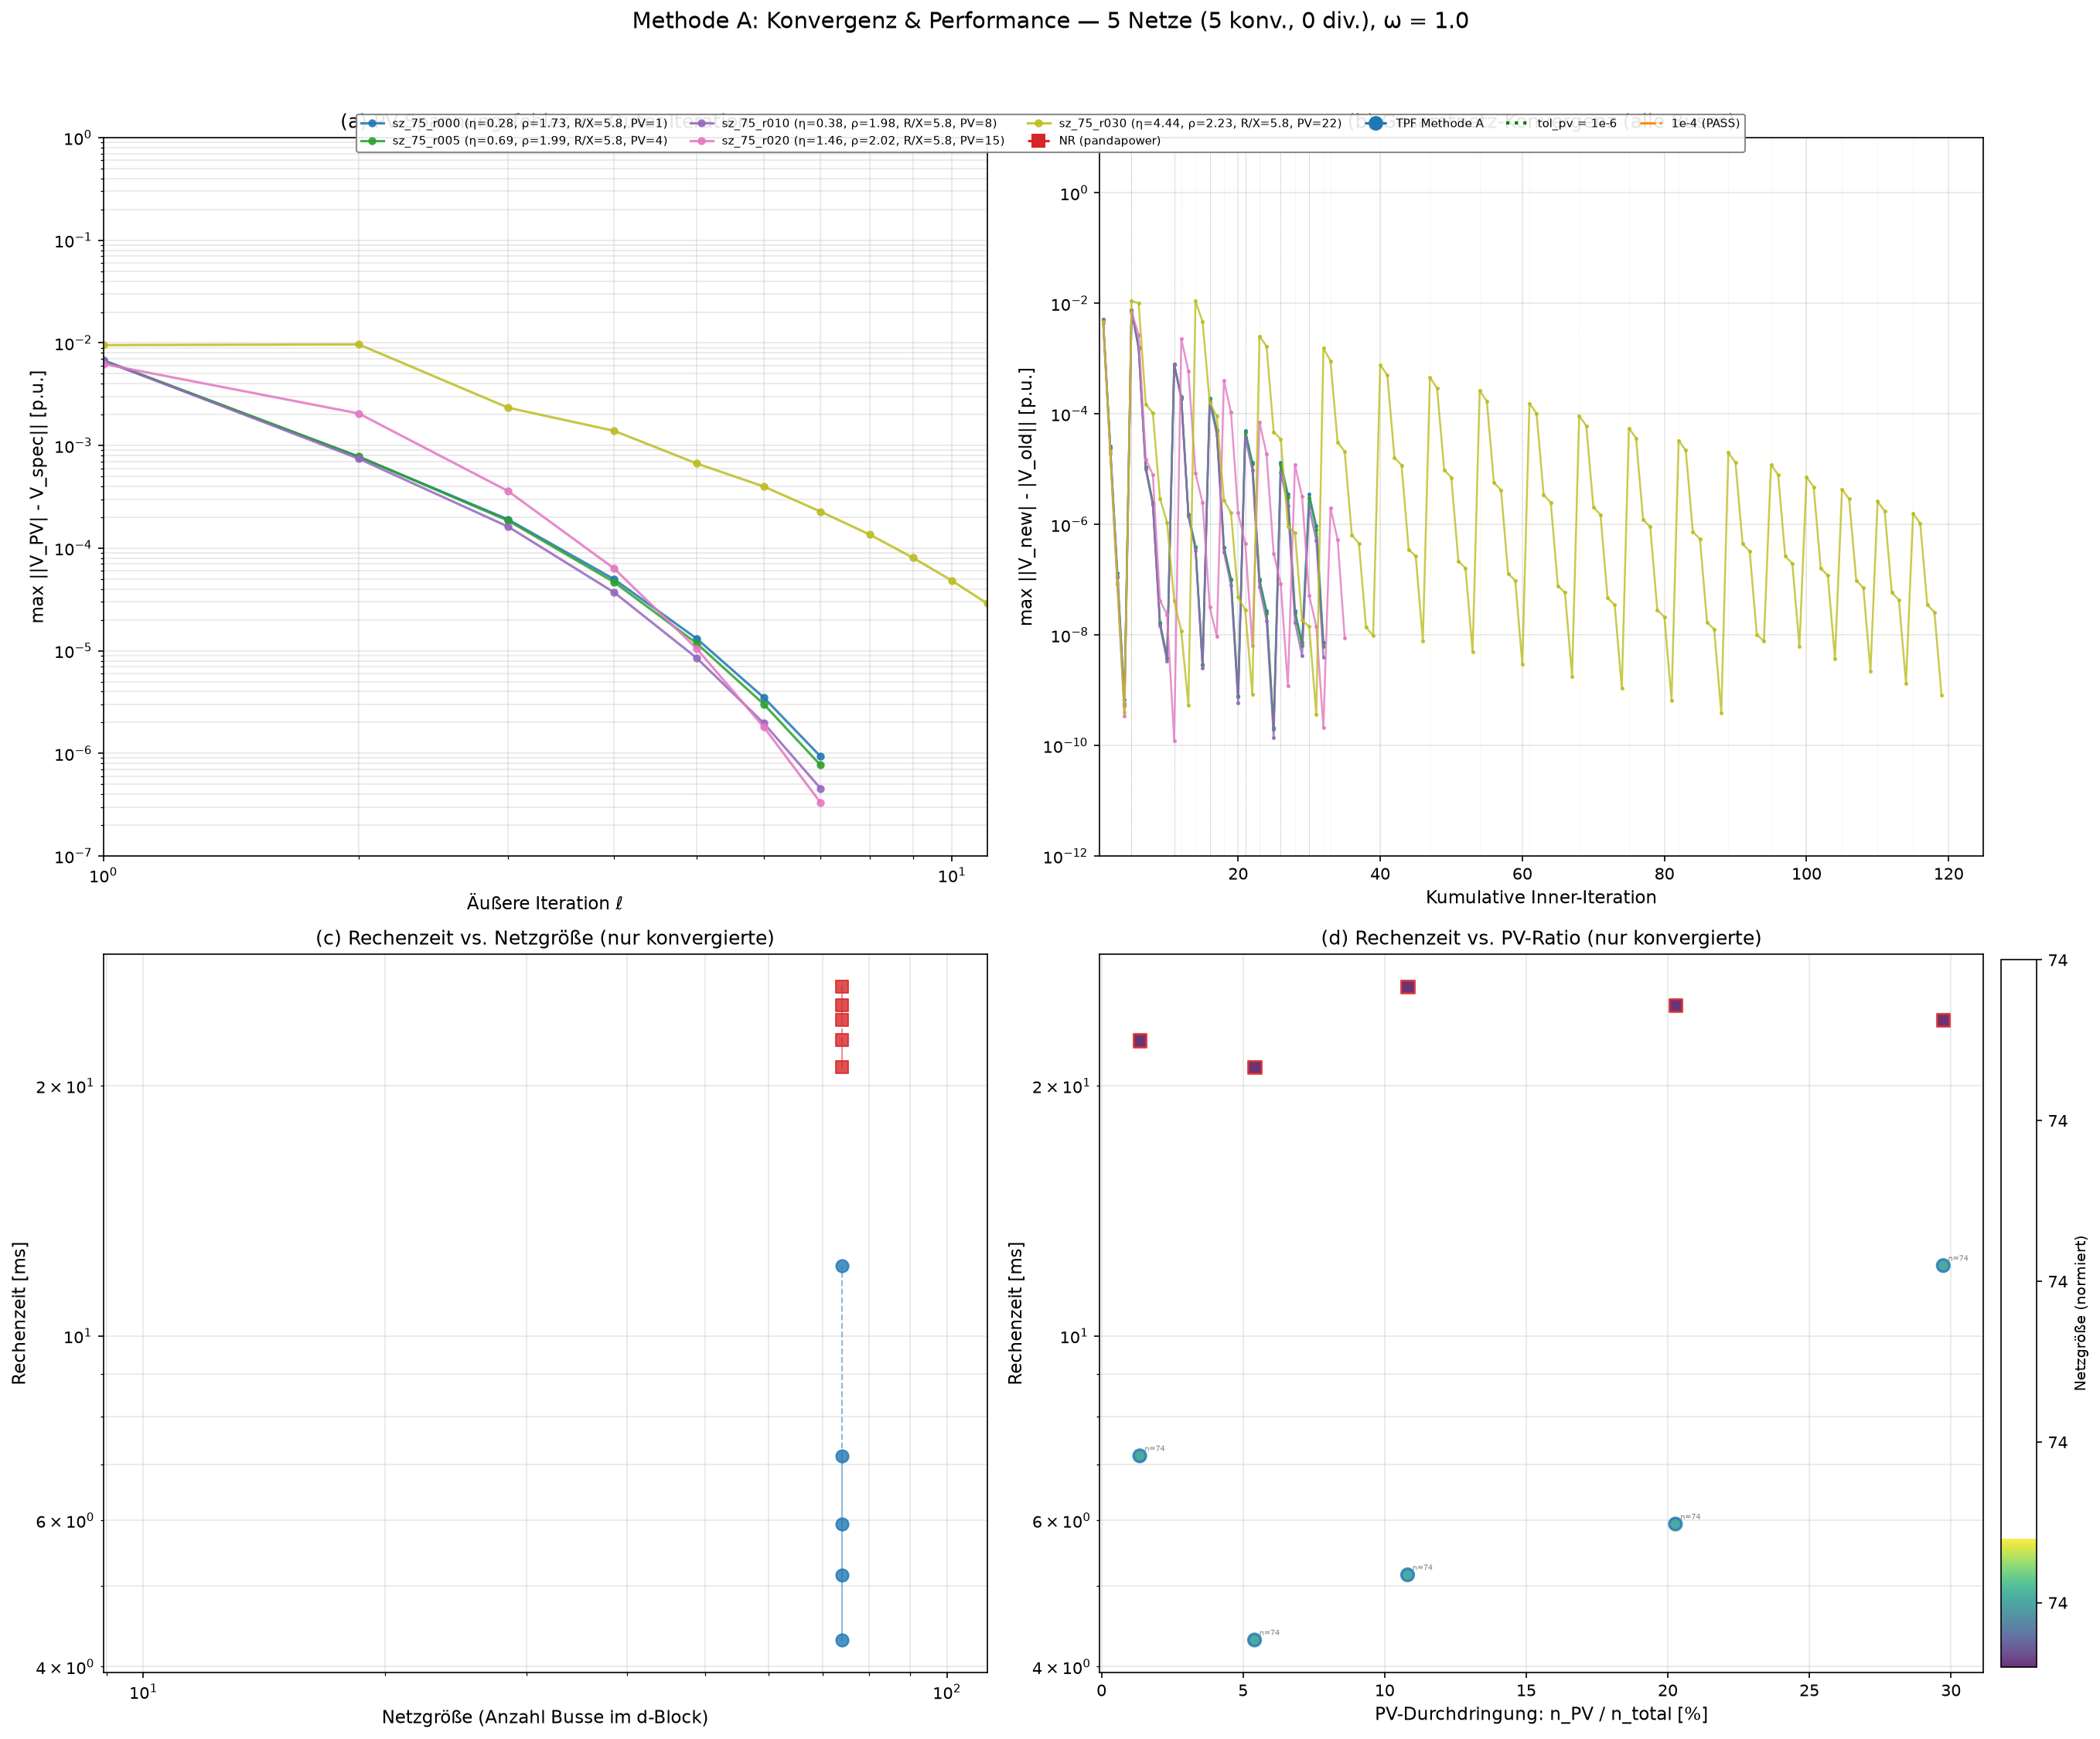
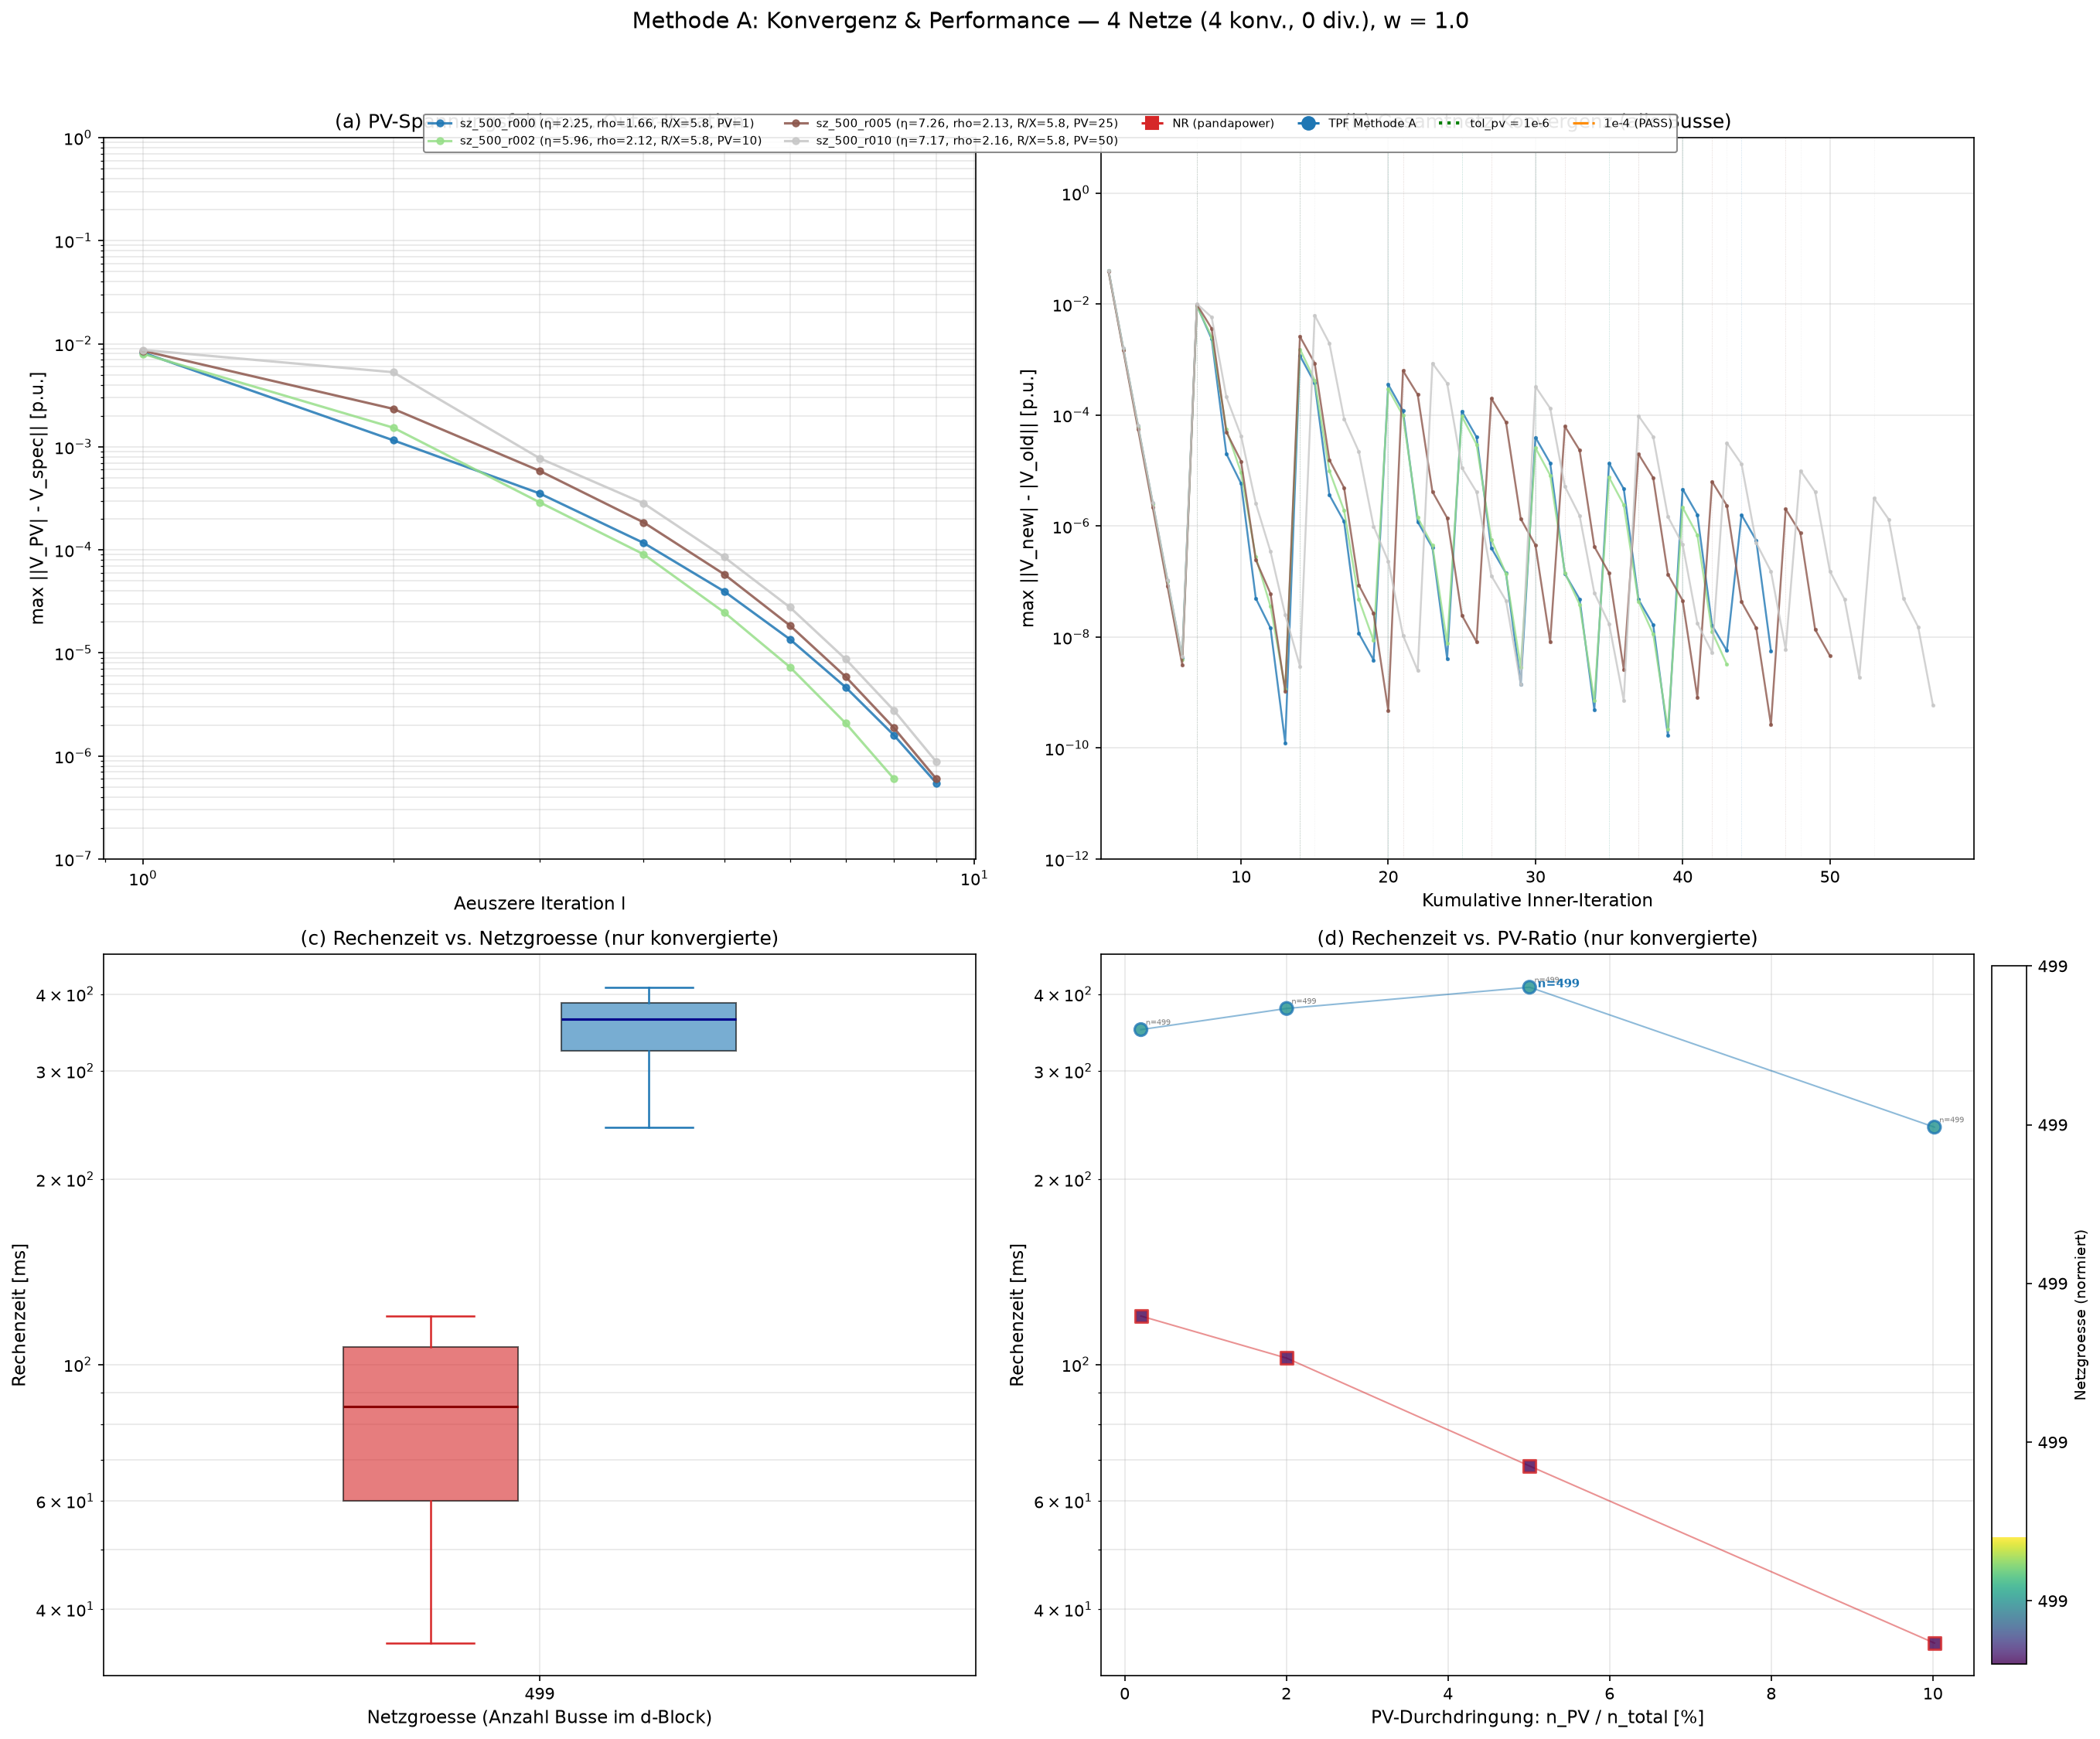
code commit: csv plotter for tau

diff --git a/Code/tensor_power_flow/scripts/plot_tau_results.py b/Code/tensor_power_flow/scripts/plot_tau_results.py
@@ -1,0 +1,230 @@
+# tensor_power_flow/scripts/plot_tau_results.py
+"""
+Plot tau scaling results from CSV files.
+Usage: python plot_tau_results.py <csv_files> [options]
+"""
+import sys, os, argparse
+from datetime import datetime
+import csv
+
+import numpy as np
+import matplotlib.pyplot as plt
+import re
+
+def parse_csv(csv_path: str):
+    """Load tau scaling data from CSV file."""
+    tau, t_tpf, t_nr, speedup, tpf_per, nr_per = [], [], [], [], [], []
+    with open(csv_path, "r") as f:
+        reader = csv.DictReader(f)
+        for row in reader:
+            tau.append(int(row["tau"]))
+            t_tpf.append(float(row["t_tpf"]))
+            t_nr.append(float(row["t_nr"]))
+            speedup.append(float(row["speedup"]))
+            tpf_per.append(float(row["tpf_per_scenario"]))
+            nr_per.append(float(row["nr_per_scenario"]))
+    return {
+        "tau": np.array(tau),
+        "t_tpf": np.array(t_tpf),
+        "t_nr": np.array(t_nr),
+        "speedup": np.array(speedup),
+        "tpf_per_scenario": np.array(tpf_per),
+        "nr_per_scenario": np.array(nr_per),
+    }
+
+
+def extract_network_name(csv_path: str) -> str:
+    """Extract network name from CSV filename."""
+    basename = os.path.basename(csv_path)
+    if basename.startswith("tau_scaling_"):
+        parts = basename.replace(".csv", "").split("_")
+        if len(parts) >= 3:
+            return "_".join(parts[2:])
+    return basename.replace(".csv", "")
+
+
+def plot_time_vs_tau(data_list, names, output_dir=None, use_log=True, save_only=False):
+    """Plot computing time vs tau (log-log or linear)."""
+    fig, ax = plt.subplots(figsize=(10, 7))
+
+    colors = plt.cm.tab10.colors
+    markers = ["o", "s", "^", "D", "v", "<", ">", "p", "h", "*"]
+
+    for i, (data, name) in enumerate(zip(data_list, names)):
+        color = colors[i % len(colors)]
+        marker = markers[i % len(markers)]
+        ax.plot(data["tau"], data["t_tpf"], color=color, marker=marker,
+                lw=2, markersize=6, label=f"TPF - {name}")
+        ax.plot(data["tau"], data["t_nr"], color=color, marker=marker,
+                lw=2, markersize=6, linestyle="--", alpha=0.7, label=f"NR - {name}")
+
+    ax.set_xlabel("tau (number of scenarios)", fontsize=12)
+    ax.set_ylabel("Computing time [s]", fontsize=12)
+    ax.set_title("Computing Time vs tau", fontsize=14)
+
+    if use_log:
+        ax.set_xscale("log")
+        ax.set_yscale("log")
+    ax.grid(True, which="both", alpha=0.3)
+    ax.legend(fontsize=9, loc="best", ncol=2)
+
+    plt.tight_layout()
+    if output_dir:
+        os.makedirs(output_dir, exist_ok=True)
+        save_path = os.path.join(output_dir, f"tau_time_{datetime.now().strftime('%Y%m%d_%H%M%S')}.png")
+        plt.savefig(save_path, dpi=150, bbox_inches="tight")
+        print(f"Plot saved: {save_path}")
+    if not save_only:
+        plt.show()
+    plt.close()
+
+
+def plot_time_per_scenario(data_list, names, output_dir=None, use_log=True, save_only=False):
+    """Plot time per scenario vs tau."""
+    fig, ax = plt.subplots(figsize=(10, 7))
+
+    colors = plt.cm.tab10.colors
+    markers = ["o", "s", "^", "D", "v", "<", ">", "p", "h", "*"]
+
+    for i, (data, name) in enumerate(zip(data_list, names)):
+        color = colors[i % len(colors)]
+        marker = markers[i % len(markers)]
+        ax.plot(data["tau"], data["tpf_per_scenario"], color=color, marker=marker,
+                lw=2, markersize=6, label=f"TPF - {name}")
+        ax.plot(data["tau"], data["nr_per_scenario"], color=color, marker=marker,
+                lw=2, markersize=6, linestyle="--", alpha=0.7, label=f"NR - {name}")
+
+    ax.set_xlabel("tau (number of scenarios)", fontsize=12)
+    ax.set_ylabel("Time per scenario [ms]", fontsize=12)
+    ax.set_title("Time per Scenario vs tau", fontsize=14)
+
+    if use_log:
+        ax.set_xscale("log")
+        ax.set_yscale("log")
+    ax.grid(True, which="both", alpha=0.3)
+    ax.legend(fontsize=9, loc="best", ncol=2)
+
+    plt.tight_layout()
+    if output_dir:
+        os.makedirs(output_dir, exist_ok=True)
+        save_path = os.path.join(output_dir, f"tau_per_scenario_{datetime.now().strftime('%Y%m%d_%H%M%S')}.png")
+        plt.savefig(save_path, dpi=150, bbox_inches="tight")
+        print(f"Plot saved: {save_path}")
+    if not save_only:
+        plt.show()
+    plt.close()
+
+
+def plot_speedup(data_list, names, output_dir=None, use_log=True, save_only=False):
+    """Plot speedup (TPF/NR) vs tau."""
+    fig, ax = plt.subplots(figsize=(10, 7))
+
+    colors = plt.cm.tab10.colors
+    markers = ["o", "s", "^", "D", "v", "<", ">", "p", "h", "*"]
+
+    for i, (data, name) in enumerate(zip(data_list, names)):
+        name = "_".join(name.split("_")[:3])
+        color = colors[i % len(colors)]
+        marker = markers[i % len(markers)]
+        ax.plot(data["tau"], data["speedup"], color=color, marker=marker,
+                lw=2, markersize=6, label=name)
+
+    ax.axhline(y=1, color="black", linestyle="-", lw=1, alpha=0.5)
+    ax.set_xlabel("tau (number of scenarios)", fontsize=12)
+    ax.set_ylabel("Speedup (NR time / TPF time)", fontsize=12)
+    ax.set_title("TPF Speedup vs NR", fontsize=14)
+
+    if use_log:
+        ax.set_xscale("log")
+        ax.set_yscale("log")
+    ax.grid(True, which="both", alpha=0.3)
+    ax.legend(fontsize=10, loc="best")
+
+    plt.tight_layout()
+    if output_dir:
+        os.makedirs(output_dir, exist_ok=True)
+        save_path = os.path.join(output_dir, f"tau_speedup_{datetime.now().strftime('%Y%m%d_%H%M%S')}.png")
+        plt.savefig(save_path, dpi=150, bbox_inches="tight")
+        print(f"Plot saved: {save_path}")
+    if not save_only:
+        plt.show()
+    plt.close()
+
+
+SCRIPT_DIR = os.path.dirname(os.path.abspath(__file__))
+DEFAULT_RESULTS_DIR = os.path.normpath(os.path.join(SCRIPT_DIR, "..", "..", "..", "results"))
+
+
+def scan_csv_files(directory: str):
+    """Scan directory for tau_scaling CSV files."""
+    csv_files = []
+    if os.path.isdir(directory):
+        for f in os.listdir(directory):
+            if f.startswith("tau_scaling_") and f.endswith(".csv"):
+                csv_files.append(os.path.join(directory, f))
+    return sorted(csv_files)
+
+
+def main():
+    parser = argparse.ArgumentParser(description="Plot tau scaling results from CSV files")
+    parser.add_argument("csv_files", nargs="*", help="CSV file paths (optional if --scan used)")
+    parser.add_argument("--scan", "-s", action="store_true",
+                        help="Scan results directory for CSV files")
+    parser.add_argument("--output-dir", "-d", type=str, default=DEFAULT_RESULTS_DIR,
+                        help="Output directory for plot (default: ../../results)")
+    parser.add_argument("--type", "-t", type=str, choices=["time", "time_per_scenario", "speedup"],
+                        default="time", help="Plot type (default: time)")
+    parser.add_argument("--linear", "-l", action="store_true",
+                        help="Use linear scale instead of log-log")
+    parser.add_argument("--save-only", action="store_true",
+                        help="Save plot to file without displaying")
+    parser.add_argument("--title", type=str, default=None,
+                        help="Custom plot title")
+    args = parser.parse_args()
+
+    csv_paths = args.csv_files
+
+    if args.scan:
+        csv_paths = scan_csv_files(DEFAULT_RESULTS_DIR)
+        if not csv_paths:
+            print(f"No CSV files found in: {DEFAULT_RESULTS_DIR}")
+            return
+        print(f"Found {len(csv_paths)} CSV files:")
+        for p in csv_paths:
+            print(f"  - {os.path.basename(p)}")
+
+    if not csv_paths:
+        csv_paths = scan_csv_files(DEFAULT_RESULTS_DIR)
+        if not csv_paths:
+            print(f"Error: No CSV files specified and none found in default directory: {DEFAULT_RESULTS_DIR}")
+            return
+        print(f"Using {len(csv_paths)} CSV files from default directory:")
+        for p in csv_paths:
+            print(f"  - {os.path.basename(p)}")
+
+    for p in csv_paths:
+        if not os.path.isfile(p):
+            print(f"Error: File not found: {p}")
+            return
+
+    data_list = []
+    names = []
+    for p in csv_paths:
+        data_list.append(parse_csv(p))
+        names.append(extract_network_name(p))
+
+    output_dir = args.output_dir
+
+    use_log = not args.linear
+    save_only = args.save_only
+
+    if args.type == "time":
+        plot_time_vs_tau(data_list, names, output_dir, use_log, save_only)
+    elif args.type == "time_per_scenario":
+        plot_time_per_scenario(data_list, names, output_dir, use_log, save_only)
+    elif args.type == "speedup":
+        plot_speedup(data_list, names, output_dir, use_log, save_only)
+
+
+if __name__ == "__main__":
+    main()